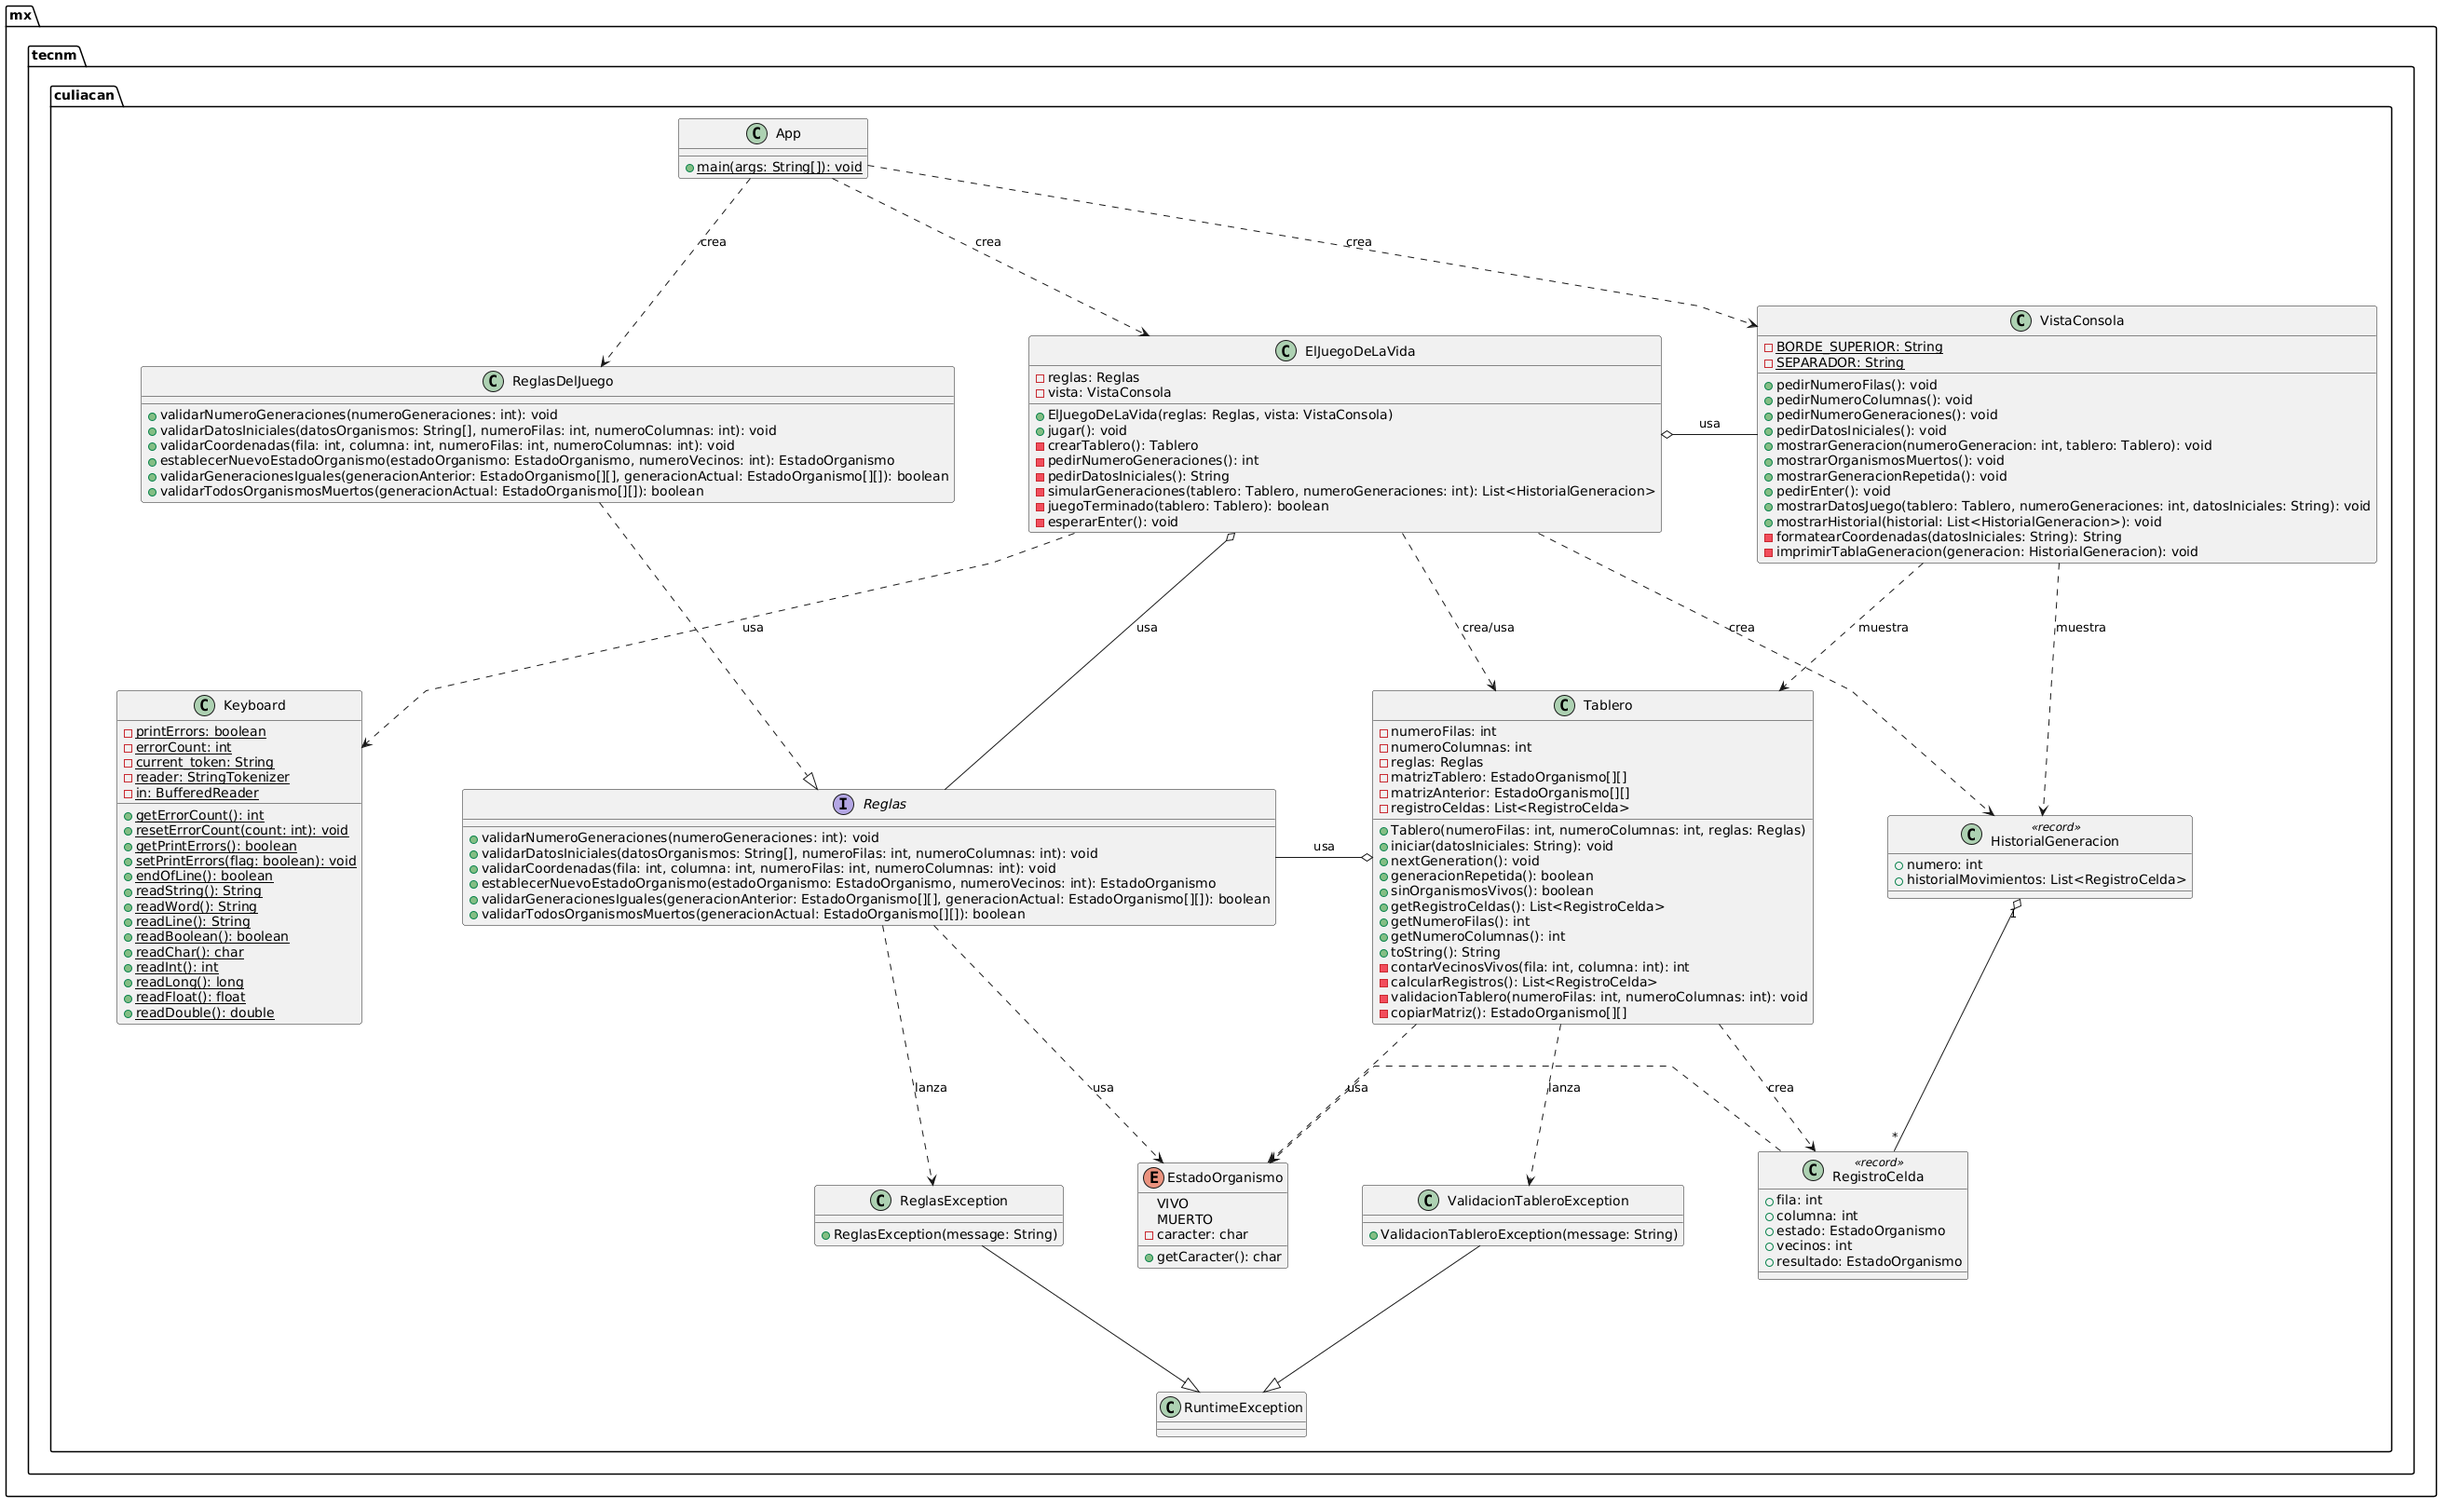
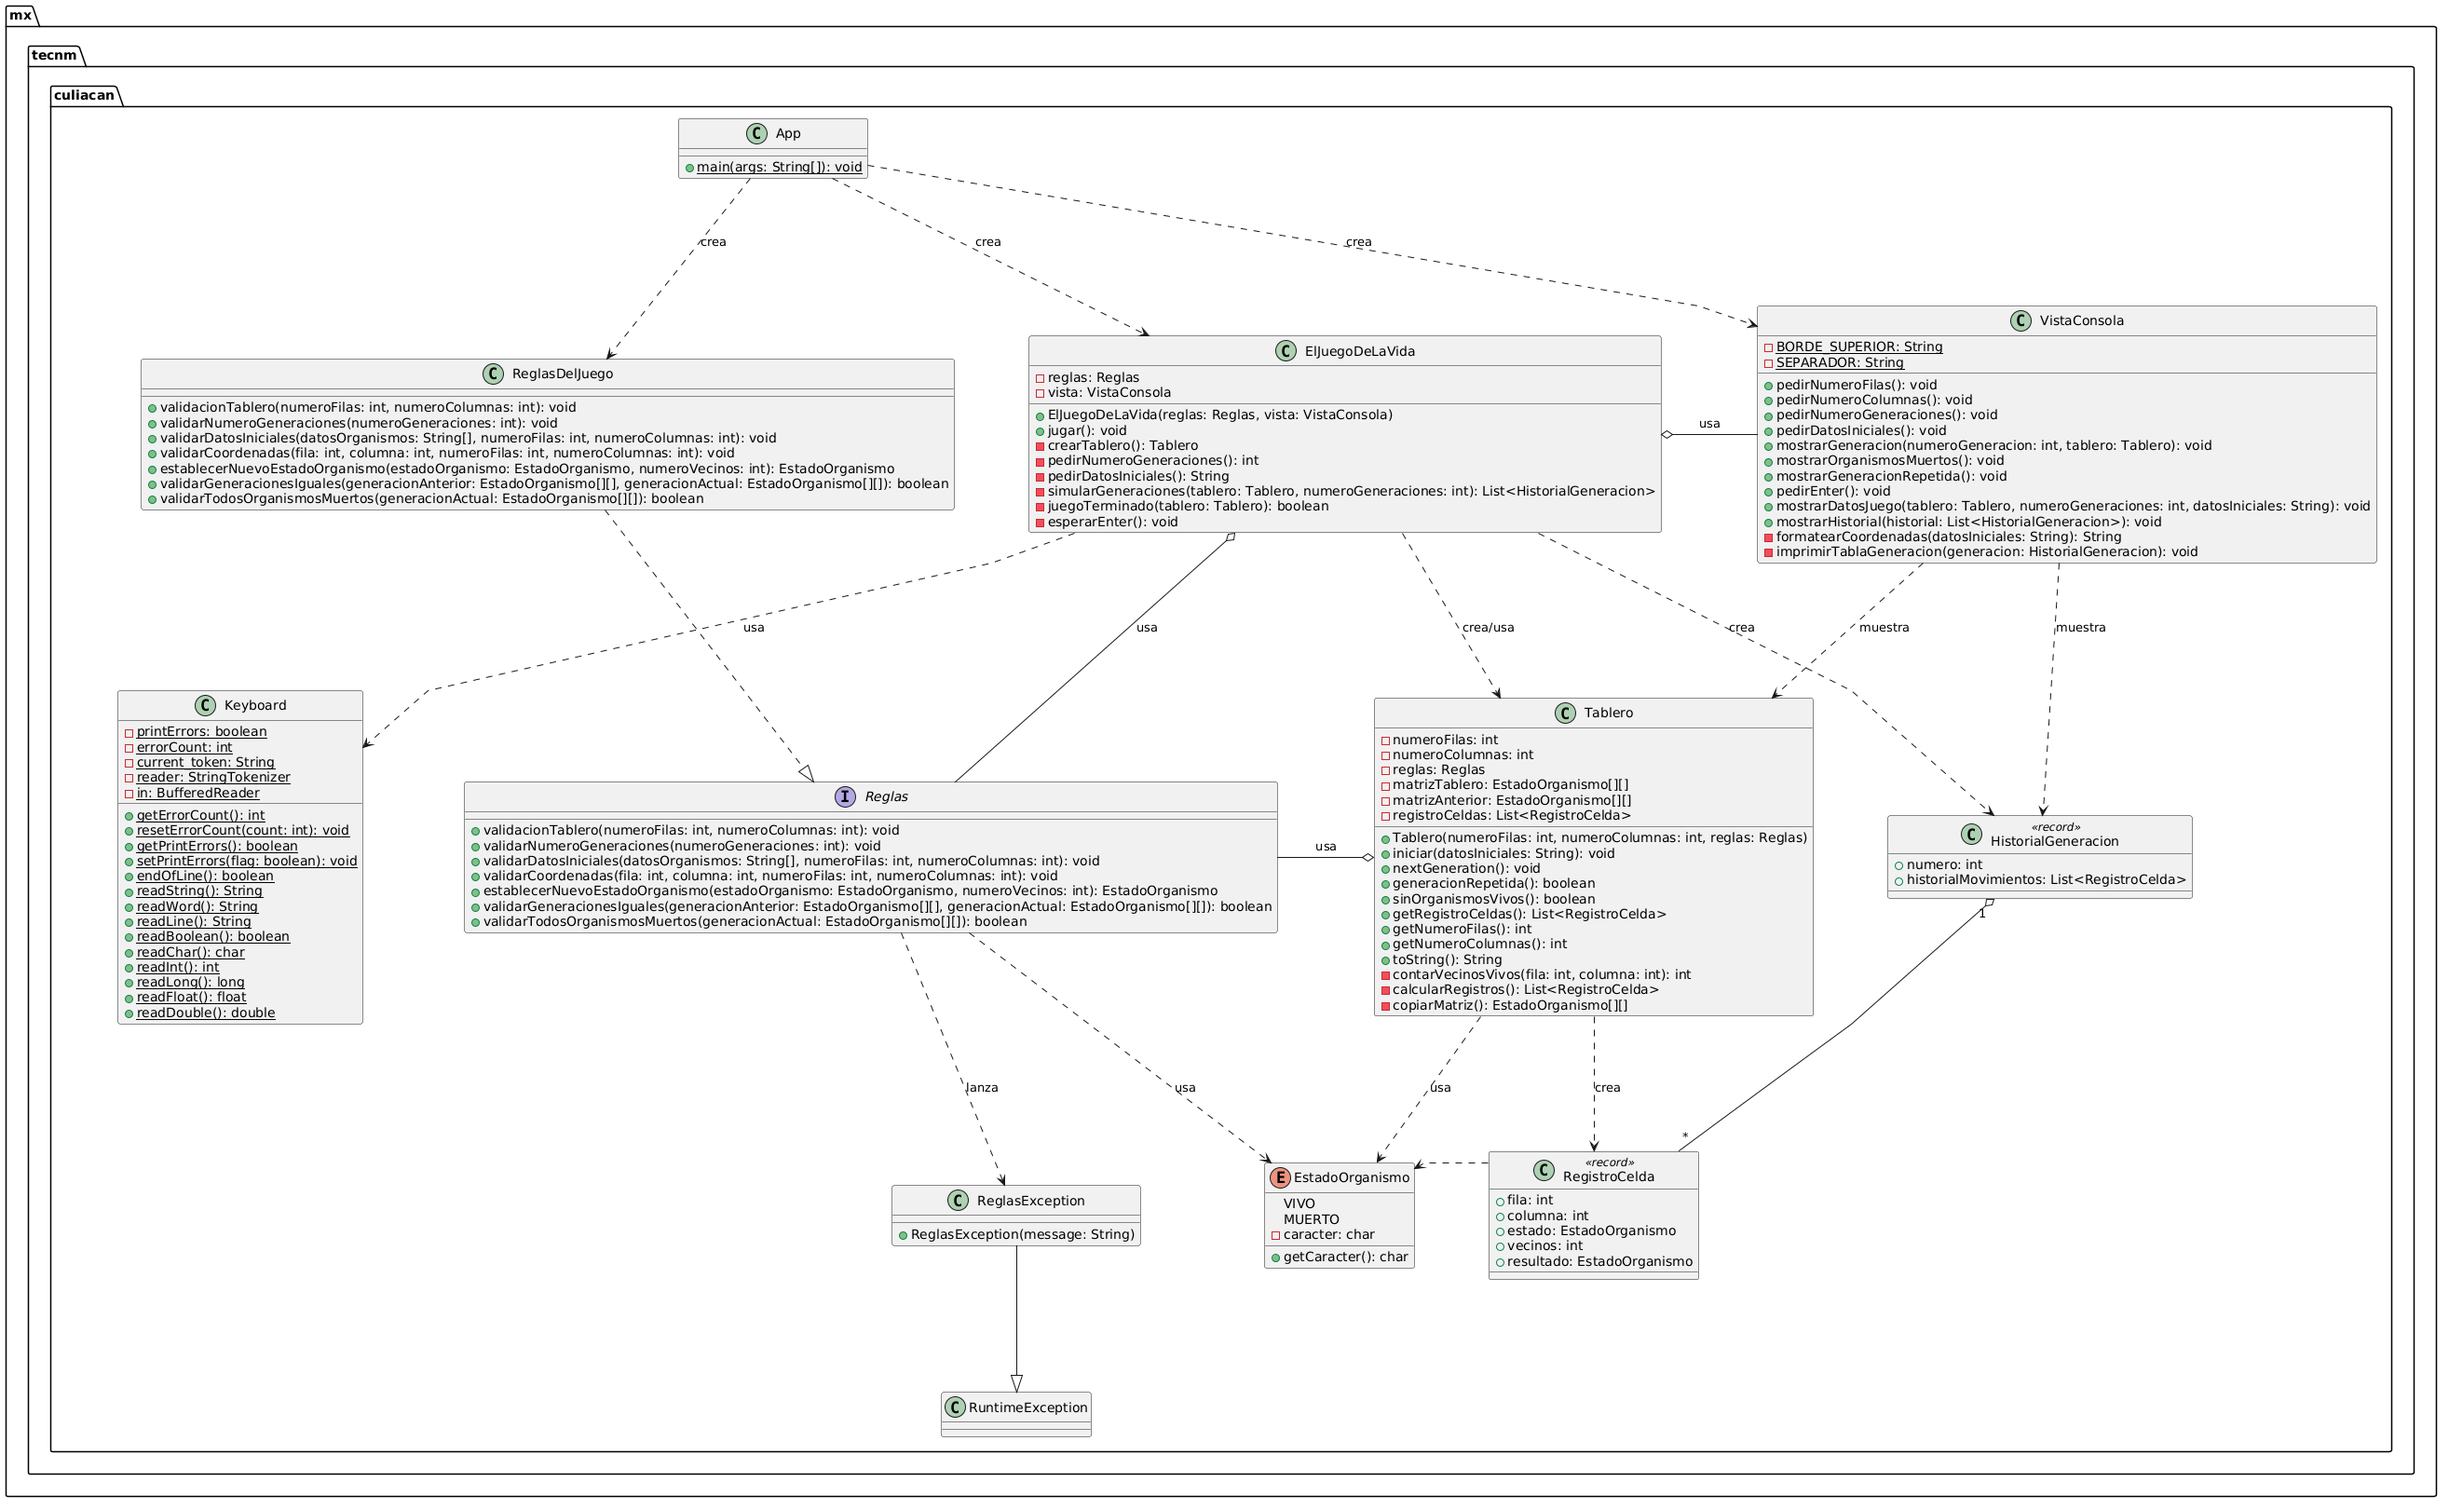
Reacomodo

diff --git a/src/main/java/mx/tecnm/culiacan/Tablero.java b/src/main/java/mx/tecnm/culiacan/Tablero.java
@@ -33,10 +33,10 @@ public class Tablero {
      * @param numeroFilas numero de filas, entre 2 y 20
      * @param numeroColumnas numero de columnas, entre 2 y 20
      * @param reglas reglas que se aplicaran al tablero
-     * @throws ValidacionTableroException si las filas o las columnas estan fuera del rango permitido
+     * @throws ReglasException si las filas o las columnas estan fuera del rango permitido
      */
     public Tablero(int numeroFilas, int numeroColumnas, Reglas reglas) {
-        validacionTablero(numeroFilas, numeroColumnas);
+        reglas.validacionTablero(numeroFilas, numeroColumnas);
         this.numeroFilas = numeroFilas;
         this.numeroColumnas = numeroColumnas;
         this.reglas = reglas;
@@ -170,7 +170,7 @@ public class Tablero {
      */
     private int contarVecinosVivos(int fila, int columna) {
         int vivos = 0;
-        for (int definicionFila = -1; definicionFila <= 1; definicionFila++) {
+        for (int definicionFila = -1; definicionFila <= 1; definicionFila++) { // -1, 0, 1
             for (int definicionColumna = -1; definicionColumna <= 1; definicionColumna++) {
                 if (definicionFila == 0 && definicionColumna == 0) continue;
 
@@ -204,18 +204,6 @@ public class Tablero {
             }
         }
         return List.copyOf(registros);
-    }
-
-    /**
-     * Verifica que las dimensiones del tablero esten entre 2 y 20.
-     *
-     * @param numeroFilas numero de filas solicitado
-     * @param numeroColumnas numero de columnas solicitado
-     * @throws ValidacionTableroException si las filas o las columnas estan fuera del rango
-     */
-    private void validacionTablero(int numeroFilas, int numeroColumnas) {
-        if (numeroFilas > 20 || numeroFilas < 2) throw new ValidacionTableroException("El rango de filas debe ser entre 2 y 20.");
-        if (numeroColumnas > 20 || numeroColumnas < 2) throw new ValidacionTableroException("El rango de columnas debe ser entre 2 y 20.");
     }
 
     /**

diff --git a/src/main/java/mx/tecnm/culiacan/ElJuegoDeLaVida.java b/src/main/java/mx/tecnm/culiacan/ElJuegoDeLaVida.java
@@ -48,10 +48,8 @@ public class ElJuegoDeLaVida {
      * los organismos iniciales. Despues inicializa el tablero, ejecuta la
      * simulacion y finalmente muestra el historial de generaciones.
      *
-     * @throws ValidacionTableroException si las dimensiones del tablero
-     *         estan fuera del rango permitido
-     * @throws ReglasException si el numero de generaciones o los datos
-     *         iniciales no cumplen las reglas establecidas
+     * @throws ReglasException si las dimensiones del tablero estan fuera del rango permitido,
+     * si el numero de generaciones o los datos iniciales no cumplen las reglas establecidas
      */
     public void jugar() {
         Tablero tablero = crearTablero();
@@ -76,7 +74,7 @@ public class ElJuegoDeLaVida {
      * leidos desde la entrada estandar mediante {@link Keyboard}.
      *
      * @return tablero vacio con las dimensiones indicadas por el usuario
-     * @throws ValidacionTableroException si las dimensiones estan fuera
+     * @throws ReglasException si las dimensiones estan fuera
      *         del rango permitido
      */
     private Tablero crearTablero() {

diff --git a/src/main/java/mx/tecnm/culiacan/ReglasDelJuego.java b/src/main/java/mx/tecnm/culiacan/ReglasDelJuego.java
@@ -26,6 +26,18 @@ import java.util.Arrays;
 public class ReglasDelJuego implements Reglas{
 
     /**
+     * Verifica que las dimensiones del tablero esten entre 2 y 20.
+     *
+     * @param numeroFilas numero de filas solicitado
+     * @param numeroColumnas numero de columnas solicitado
+     * @throws ReglasException si las filas o las columnas estan fuera del rango
+     */
+    public void validacionTablero(int numeroFilas, int numeroColumnas) {
+        if (numeroFilas > 20 || numeroFilas < 2) throw new ReglasException("El rango de filas debe ser entre 2 y 20.");
+        if (numeroColumnas > 20 || numeroColumnas < 2) throw new ReglasException("El rango de columnas debe ser entre 2 y 20.");
+    }
+
+    /**
      * Verifica que el numero de generaciones este entre 1 y 50.
      *
      * @param numeroGeneraciones numero de generaciones solicitado por el usuario

diff --git a/src/main/java/mx/tecnm/culiacan/Reglas.java b/src/main/java/mx/tecnm/culiacan/Reglas.java
@@ -16,6 +16,13 @@ package mx.tecnm.culiacan;
 public interface Reglas {
 
     /**
+     * Verifica que las dimensiones del tablero esten entre 2 y 20.
+     * @param numeroFilas numero de filas del tablero
+     * @param numeroColumnas numero de columnas del tablero
+     * @throws ReglasException si los datos del tablero son incorrectos
+     */
+    void validacionTablero(int numeroFilas, int numeroColumnas);
+    /**
      * Verifica que el numero de generaciones este dentro del rango permitido.
      *
      * @param numeroGeneraciones numero de generaciones solicitado por el usuario

diff --git a/src/main/java/mx/tecnm/culiacan/VistaConsola.java b/src/main/java/mx/tecnm/culiacan/VistaConsola.java
@@ -123,11 +123,7 @@ public class VistaConsola {
      * @param datosIniciales texto introducido por el usuario con las
      *                       coordenadas iniciales
      */
-    public void mostrarDatosJuego(
-            Tablero tablero,
-            int numeroGeneraciones,
-            String datosIniciales) {
-
+    public void mostrarDatosJuego(Tablero tablero, int numeroGeneraciones, String datosIniciales) {
         System.out.println();
 
         System.out.println(
